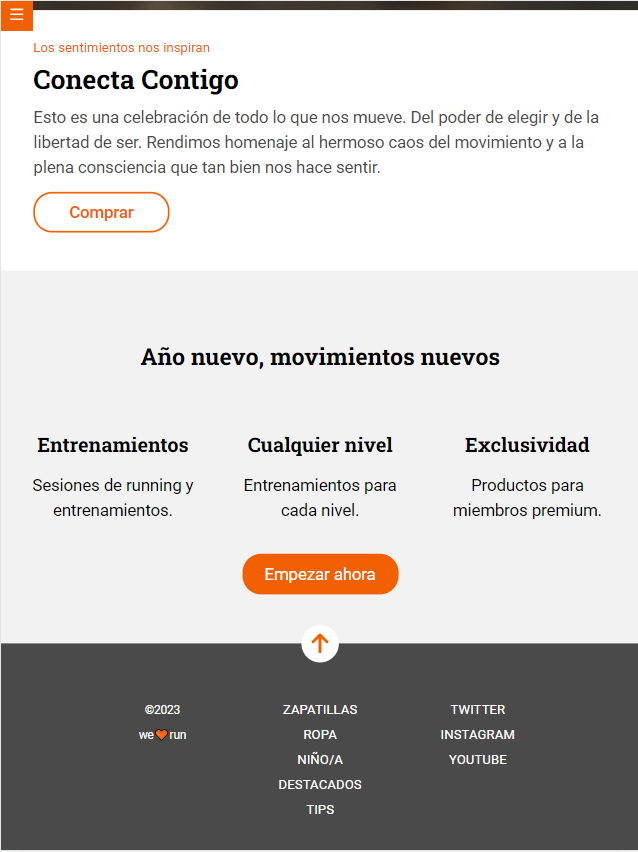
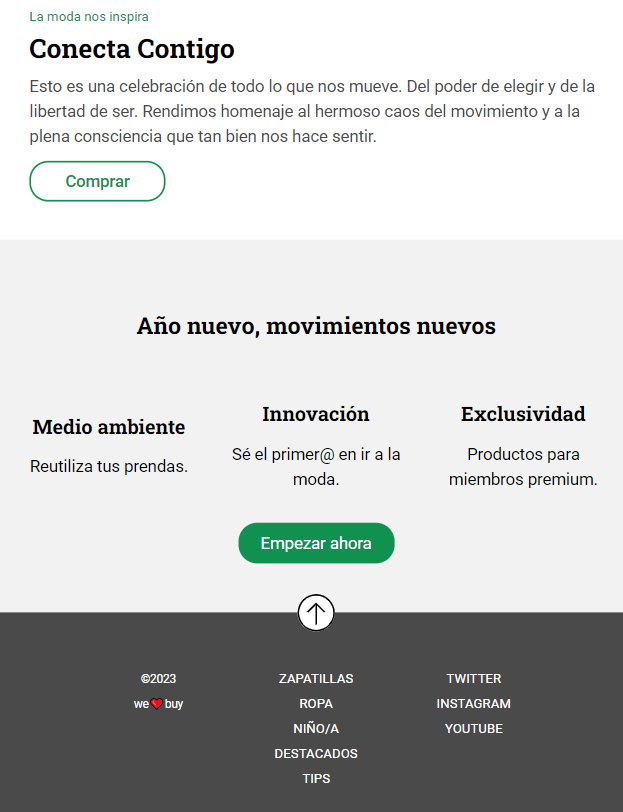
change project and add gallery

diff --git a/src/components/App.js b/src/components/App.js
@@ -6,7 +6,7 @@ import Menu from './Menu';
 import Projects from './Projects';
 import Contact from './Contact';
 import harry from '../images/projectImages/harry.PNG';
-import run from '../images/projectImages/run.PNG';
+import buy from '../images/projectImages/buy.PNG';
 import cocktails from '../images/projectImages/cocktails.PNG';
 import friends from '../images/projectImages/friends.PNG';
 import compass from '../images/projectImages/brujula.PNG';
@@ -22,6 +22,7 @@ import quotes from '../images/overImages/quotes.PNG';
 import guess from '../images/overImages/guess.PNG';
 import comp from '../images/overImages/compass.PNG';
 import Footer from './Footer';
+import i18next from 'i18next';
 
 const App = () => {
   const projectList = [{
@@ -49,11 +50,11 @@ const App = () => {
     technologies: ["HTML", "SASS", "React", "Node.js", "Express.js", "MySQL Workbench"]
   },
   {
-    image: run,
+    image: buy,
     overImage: we,
-    name: "We 🧡 run",
-    repo: "https://github.com/laurapascual/we-run",
-    demo: "https://laurapascual.github.io/we-run/",
+    name: "We ❤ Buy",
+    repo: "https://github.com/laurapascual/we-buy",
+    demo: "https://laurapascual.github.io/we-buy/",
     technologies: ["HTML", "CSS", "SASS"]
   },
   {
@@ -108,6 +109,21 @@ const App = () => {
       setIsMenuShown(false);
     }
   };
+
+
+
+/* i18next.changeLanguage('en', (err, t) => {
+  if (err) return console.log('something went wrong loading', err);
+  t('key'); // -> same as i18next.t
+});
+
+// using Promises
+i18next
+  .changeLanguage('en')
+  .then((t) => {
+    t('key'); // -> same as i18next.t
+  }); */
+
 
   return (
     <div className="App">
